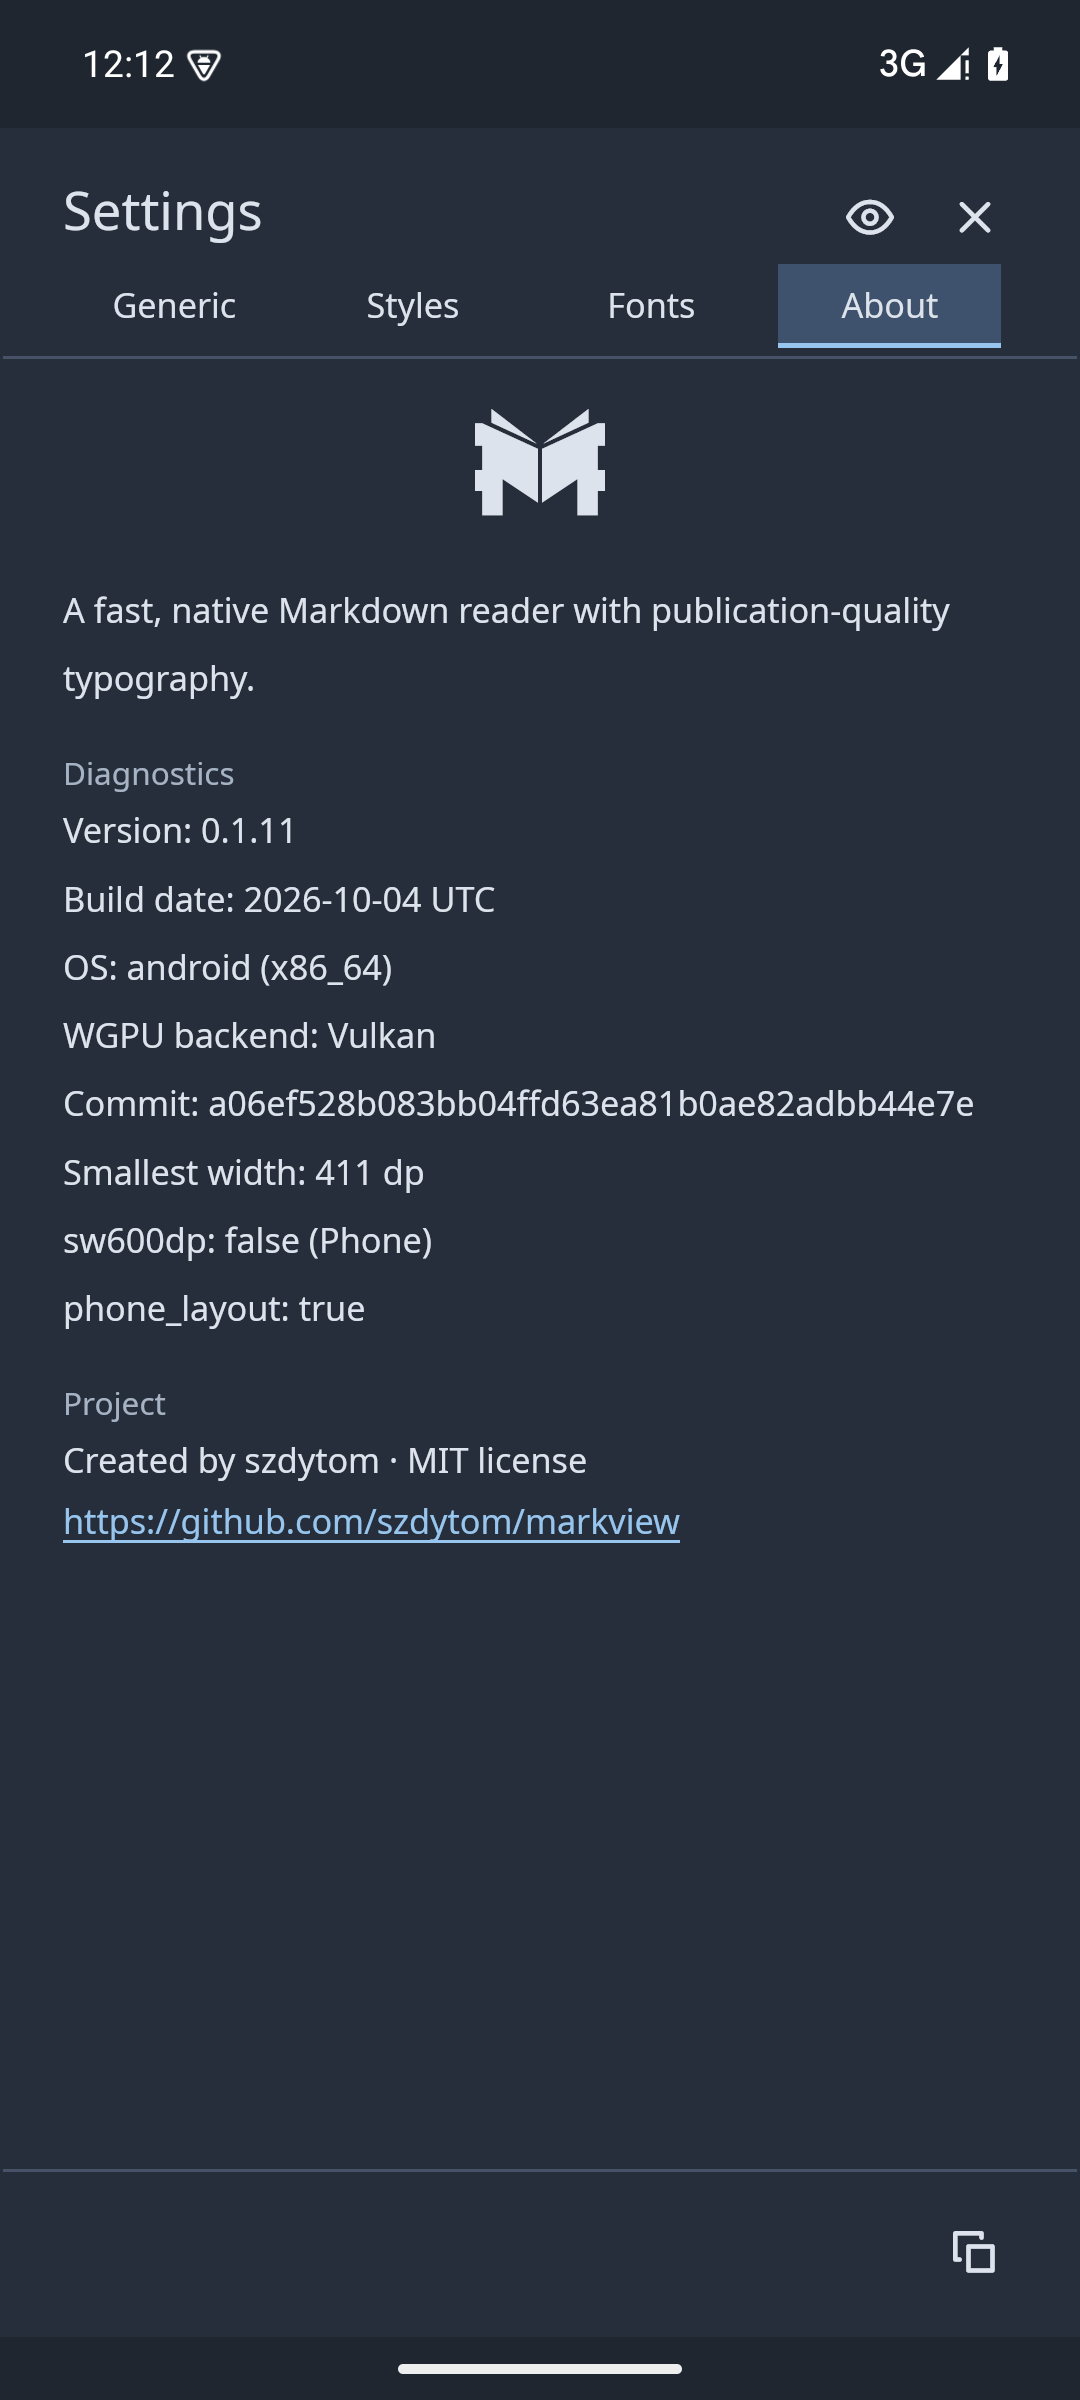
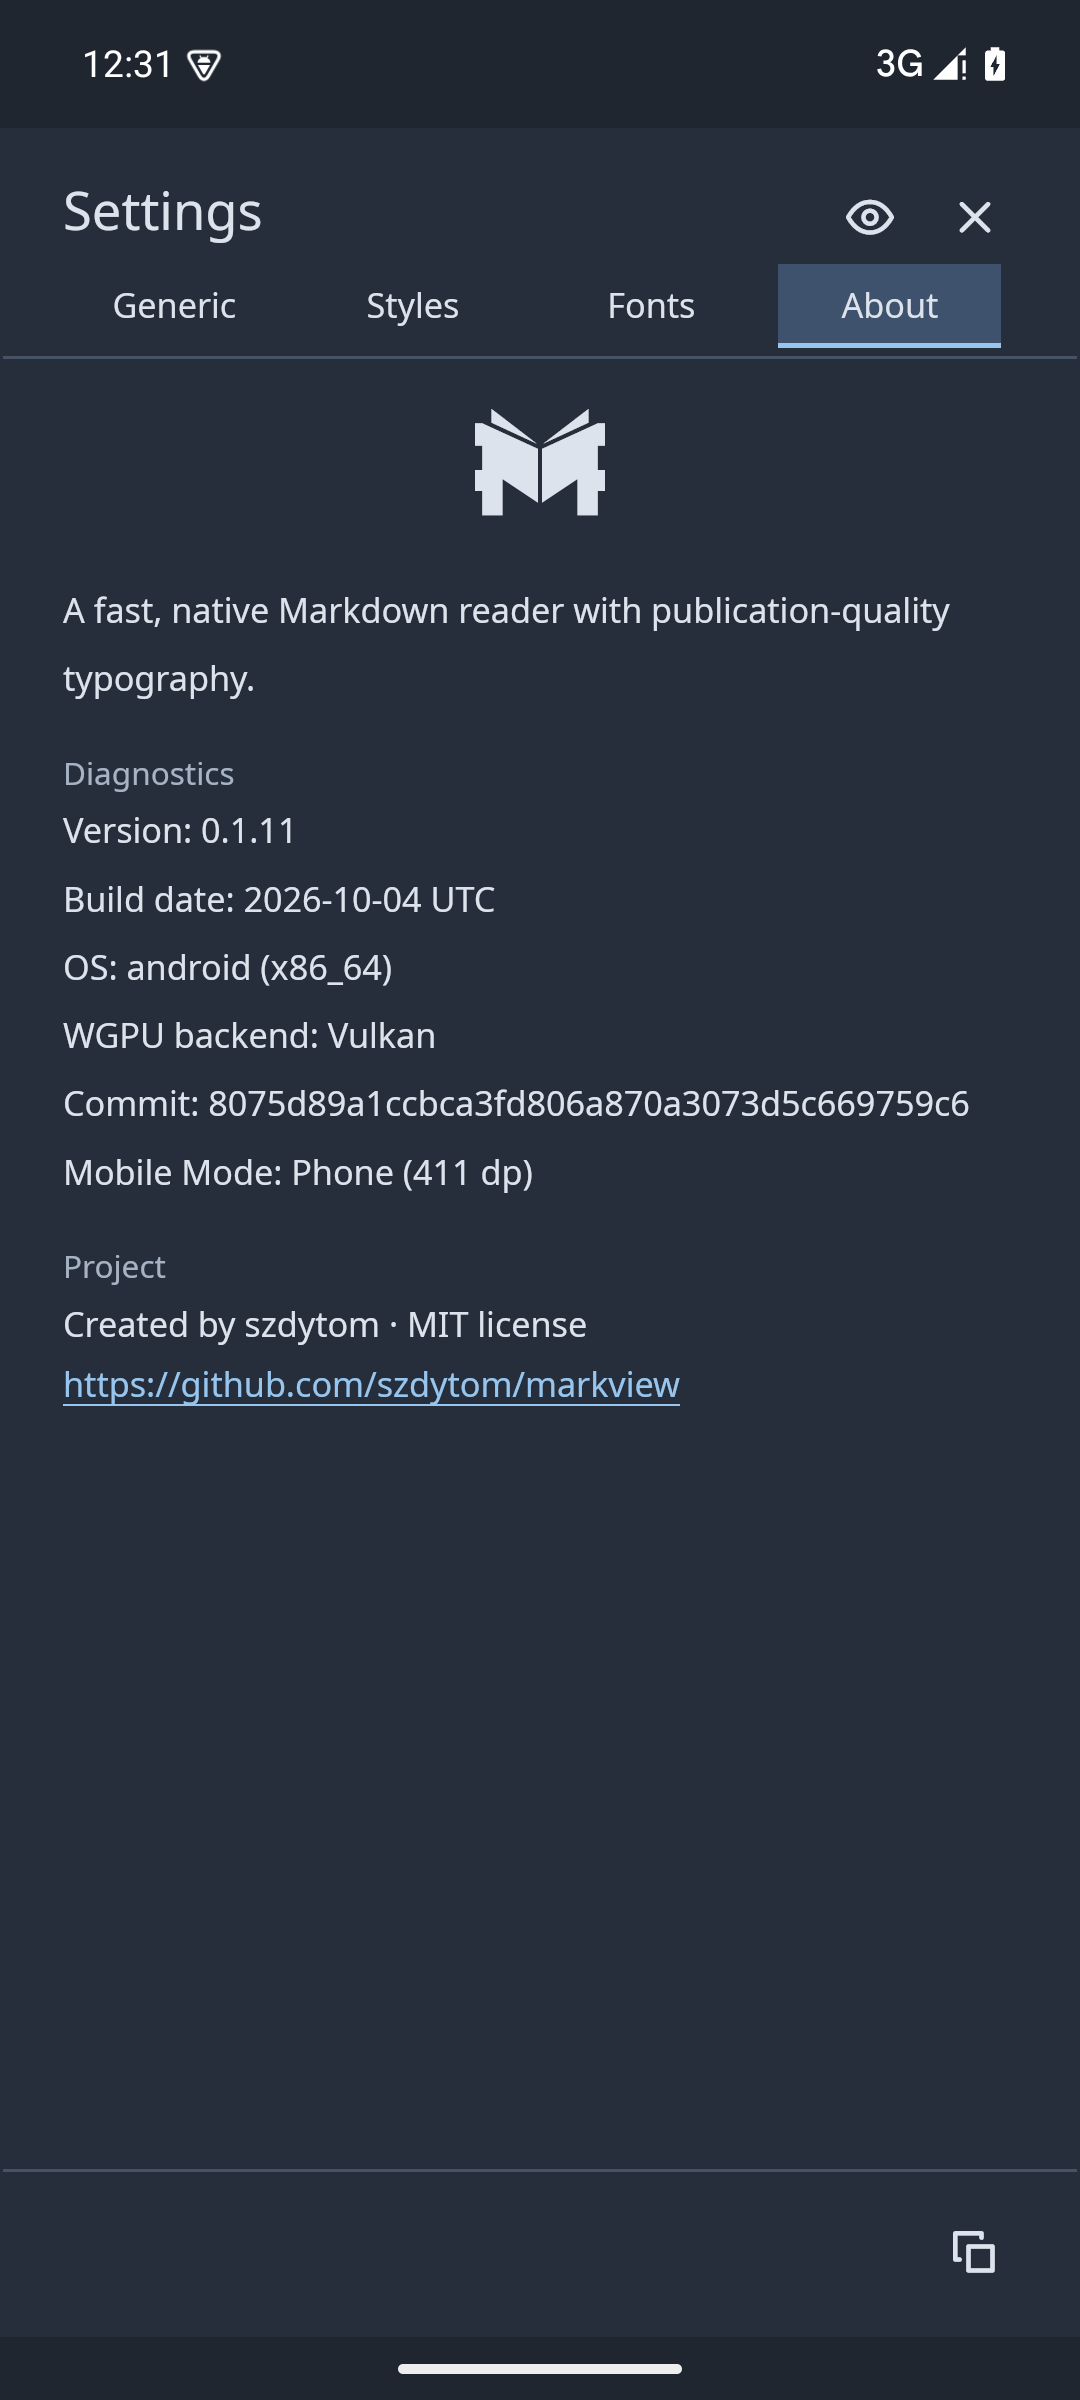
fix: condense mobile mode diagnostics

diff --git a/android/tests/io/github/szdytom/markview/Smoke.java b/android/tests/io/github/szdytom/markview/Smoke.java
@@ -64,8 +64,8 @@ public class Smoke extends Instrumentation {
                 requireSettingsLayout();
                 tap("SettingsTab(About)");
                 waitFor(s -> s.optString("panel").equals("Settings(About)"));
-                checkLayoutDiagnostics(smallestWidth);
                 screenshot("layout");
+                checkLayoutDiagnostics(smallestWidth);
                 result.putString("stream", results.toString() + "MARKVIEW_ANDROID_INTEGRATION_OK\n");
                 finish(Activity.RESULT_OK, result);
                 return;
@@ -303,10 +303,9 @@ public class Smoke extends Instrumentation {
             android.content.ClipboardManager clipboard = (android.content.ClipboardManager)activity.getSystemService(Activity.CLIPBOARD_SERVICE);
             text[0] = clipboard.getPrimaryClip().getItemAt(0).coerceToText(activity).toString();
         });
-        require(text[0].contains("Smallest width: " + width + " dp\n"), "Diagnostics contain current Android smallest width");
-        require(text[0].contains("sw600dp: " + !phone + " (" + (phone ? "Phone" : "Tablet") + ")\n"), "Diagnostics contain resolved sw600dp mode");
-        require(text[0].contains("phone_layout: " + phone + "\n"), "Diagnostics contain resource value");
-        pass("Copied diagnostics include smallest width, resolved sw600dp and phone_layout");
+        require(text[0].contains("Mobile Mode: " + (phone ? "Phone" : "Tablet") + " (" + width + " dp)\n"), "Diagnostics contain mobile mode and smallest width in one line");
+        require(!text[0].contains("Smallest width:") && !text[0].contains("sw600dp:") && !text[0].contains("phone_layout:"), "Diagnostics omit separate layout rows");
+        pass("Copied diagnostics include a single Mobile Mode line");
     }
     private void requireSettingsLayout() throws Exception {
         JSONObject current = state();

diff --git a/src/diagnostics.rs b/src/diagnostics.rs
@@ -30,15 +30,9 @@ pub(crate) fn fields(
 		(lang.diagnostics_commit(), env!("MARKVIEW_COMMIT").into()),
 		#[cfg(target_os = "android")]
 		(
-			lang.diagnostics_smallest_width(),
-			format!("{smallest_width} dp"),
-		),
-		#[cfg(target_os = "android")]
-		(
-			"sw600dp",
+			lang.diagnostics_mobile_mode(),
 			format!(
-				"{} ({})",
-				!phone,
+				"{} ({smallest_width} dp)",
 				if phone {
 					lang.diagnostics_phone()
 				} else {
@@ -46,8 +40,6 @@ pub(crate) fn fields(
 				}
 			),
 		),
-		#[cfg(target_os = "android")]
-		("phone_layout", phone.to_string()),
 	]
 }
 

diff --git a/android/README.md b/android/README.md
@@ -21,7 +21,7 @@ integration suite. The screens reuse the desktop UI with phone adaptation.
 
 Android layout diagnostics:
 
-<img src="../docs/screenshots/android/diagnostics.png" alt="Markview Android About page showing smallest width and resolved sw600dp mode" width="250">
+<img src="../docs/screenshots/android/diagnostics.png" alt="Markview Android About page showing Mobile Mode and smallest width in one line" width="250">
 
 Phones manage tabs in the left drawer:
 
@@ -59,9 +59,8 @@ controls. Android's `values-sw600dp` resource qualifier selects tablet mode:
 | Smallest width below 600 dp | Left drawer: switch, close and open documents | Portrait | Hidden and ignored |
 | Smallest width at least 600 dp | Shared desktop tab strip | Portrait or landscape | Available |
 
-**About** and **Copy diagnostics** include the current smallest width in dp,
-the resolved `sw600dp` result and device mode, and the `phone_layout` resource
-value.
+**About** and **Copy diagnostics** include one mobile-mode line, such as
+`Mobile Mode: Phone (411 dp)` or `Mobile Mode: Tablet (800 dp)`.
 
 The device mode follows the smallest width, independent of rotation and keyboard
 visibility; configuration changes update it without discarding reader sessions. Desktop window-layout and single-instance settings are hidden and

diff --git a/CHANGELOG.md b/CHANGELOG.md
@@ -23,7 +23,7 @@ at the same level, without `[brackets]`.
 
 ### Added
 
-- Include Android smallest width, resolved `sw600dp` mode and `phone_layout` in About and copied diagnostics.
+- Include Android mobile mode and smallest width in a single About and copied-diagnostics line.
 
 - Add MV4A (MarkView as a Android App), sharing desktop settings, tabs, fonts, image caching and export, with Android document access, touch adaptation and emulator integration tests; the installed app is named Markview.
 
